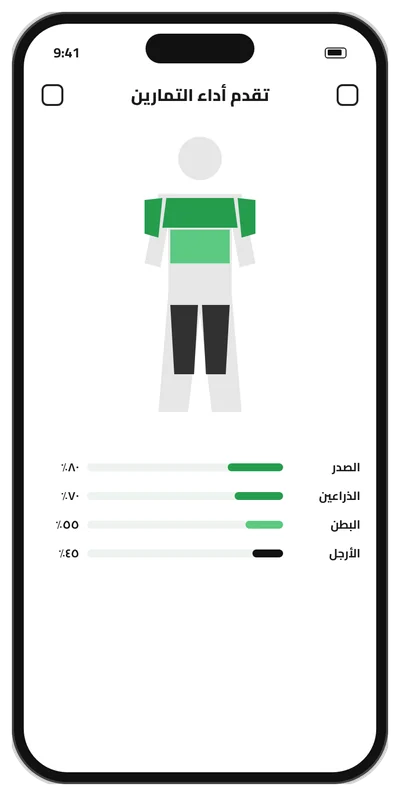
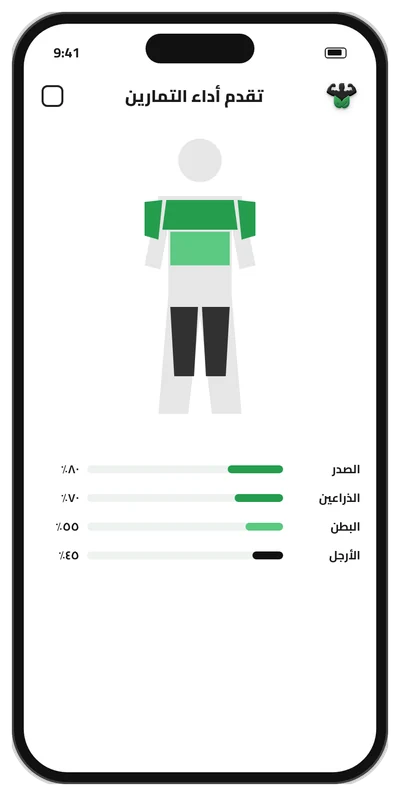
اللوجو جوه شاشات الموبايل بدل ما يكون برّه، وصور موحدة في صفحة الاشتراكات
Claude-Session: https://claude.ai/code/session_01Jq8xHZeKVQdYZvT3ecHSsn

diff --git a/index.html b/index.html
@@ -48,7 +48,7 @@
       </div>
       <a class="btn" href="start.html">ابدأ التغيير</a>
     </div>
-    <div class="hero-img branded duo"><img class="p1" src="assets/app-nutrition.webp" width="520" height="1043" alt="شاشة الوجبات في التطبيق"><img class="p2" src="assets/app-goal.webp" width="480" height="802" alt="شاشة اختيار الهدف"></div>
+    <div class="hero-img duo"><img class="p1" src="assets/app-nutrition.webp" width="520" height="1043" alt="شاشة الوجبات في التطبيق"><img class="p2" src="assets/app-goal.webp" width="480" height="802" alt="شاشة اختيار الهدف"></div>
   </div>
 </header>
 <section class="band" id="app"><div class="wrap">
@@ -62,7 +62,7 @@
       <div class="step"><i>١</i><div><h3>حدد هدفك الذي تود تحقيقه</h3><p>نصمم لك برنامجك المتكامل بناءً على هدفك كي تصل إليه أسرع.</p></div></div>
       <div class="step"><i>٢</i><div><h3>أخبرنا بمعلومات عن جسمك</h3><p>أدخل وزنك، طولك، نسبة الدهون بجسمك كي نتعرف على احتياجاتك بدقة.</p></div></div>
     </div>
-    <div class="phone branded"><img src="assets/app-goal.webp" width="480" height="802" alt="شاشة اختيار الهدف في التطبيق" loading="lazy"></div>
+    <img class="phone" src="assets/app-goal.webp" width="480" height="802" alt="شاشة اختيار الهدف في التطبيق" loading="lazy">
     <div>
       <div class="step"><i>٣</i><div><h3>اختر تفضيلاتك في التغذية</h3><p>حدد جميع تفضيلاتك كي نحضّر لك أفضل الوصفات الصحية بدون تخمينات.</p></div></div>
       <div class="step"><i>٤</i><div><h3>صمم تمارينك بدون قيود</h3><p>أخبرنا بمكان التمرين، مستواك الرياضي، والأدوات المتاحة كي تتمرن بدون قيود.</p></div></div>
@@ -82,7 +82,7 @@
     </ul>
     <a class="btn" href="start.html">ابدأ رحلتك الآن</a>
   </div>
-  <div class="shot branded"><span class="s1"></span><span class="s2"></span><img src="assets/app-workouts.webp" width="520" height="1035" alt="شاشة برنامج التمارين" loading="lazy"></div>
+  <div class="shot"><span class="s1"></span><span class="s2"></span><img src="assets/app-workouts.webp" width="520" height="1035" alt="شاشة برنامج التمارين" loading="lazy"></div>
 </div></section>
 
 <section class="band feat flip alt"><div class="wrap">
@@ -97,7 +97,7 @@
     </ul>
     <a class="btn" href="start.html">ابدأ رحلتك الآن</a>
   </div>
-  <div class="shot branded"><span class="s1"></span><span class="s2"></span><img src="assets/app-nutrition.webp" width="520" height="1043" alt="شاشة الوجبات في التطبيق" loading="lazy"></div>
+  <div class="shot"><span class="s1"></span><span class="s2"></span><img src="assets/app-nutrition.webp" width="520" height="1043" alt="شاشة الوجبات في التطبيق" loading="lazy"></div>
 </div></section>
 
 <section class="band peach feat"><div class="wrap">
@@ -111,14 +111,14 @@
     </ul>
     <a class="btn" href="start.html">ابدأ رحلتك الآن</a>
   </div>
-  <div class="shot branded"><span class="s1"></span><span class="s2"></span><img src="assets/app-chat.webp" width="520" height="1041" alt="شاشة المحادثة مع المدرب" loading="lazy"></div>
+  <div class="shot"><span class="s1"></span><span class="s2"></span><img src="assets/app-chat.webp" width="520" height="1041" alt="شاشة المحادثة مع المدرب" loading="lazy"></div>
 </div></section>
 
 <section class="band"><div class="wrap">
   <div class="cards3">
-    <div class="pc branded"><h3>تغير في أقل من ٣٠ يوم</h3><p>تابع نزول وزنك ونسبة دهونك أسبوع بأسبوع، وشوف التغيير بعينك.</p><img src="assets/stat-change.webp" width="520" height="539" alt="رسم بياني لنزول الوزن في التطبيق" loading="lazy"></div>
-    <div class="pc branded"><h3>تابع تقدمك</h3><p>بروفايلك الشخصي يتم تحديثه باستمرار بإحصائيات لمتابعة تقدمك خطوة بخطوة، وتحفيزك للمواظبة على برنامجك.</p><img src="assets/stat-progress.webp" width="520" height="527" alt="شاشة متابعة التقدم" loading="lazy"></div>
-    <div class="pc branded"><h3>نافس أصدقاءك</h3><p>تحدَّ نفسك وأصدقاءك. اجمع نقاط وسترايكس مع كل تمرينة ووجبة وكوب ماء وإنجاز، واوصل لمستويات أعلى.</p><img src="assets/stat-level.webp" width="520" height="539" alt="شاشة المستوى الجديد" loading="lazy"></div>
+    <div class="pc"><h3>تغير في أقل من ٣٠ يوم</h3><p>تابع نزول وزنك ونسبة دهونك أسبوع بأسبوع، وشوف التغيير بعينك.</p><img src="assets/stat-change.webp" width="520" height="539" alt="رسم بياني لنزول الوزن في التطبيق" loading="lazy"></div>
+    <div class="pc"><h3>تابع تقدمك</h3><p>بروفايلك الشخصي يتم تحديثه باستمرار بإحصائيات لمتابعة تقدمك خطوة بخطوة، وتحفيزك للمواظبة على برنامجك.</p><img src="assets/stat-progress.webp" width="520" height="527" alt="شاشة متابعة التقدم" loading="lazy"></div>
+    <div class="pc"><h3>نافس أصدقاءك</h3><p>تحدَّ نفسك وأصدقاءك. اجمع نقاط وسترايكس مع كل تمرينة ووجبة وكوب ماء وإنجاز، واوصل لمستويات أعلى.</p><img src="assets/stat-level.webp" width="520" height="539" alt="شاشة المستوى الجديد" loading="lazy"></div>
   </div>
 </div></section>
 

diff --git a/pricing.html b/pricing.html
@@ -61,7 +61,7 @@
 <section class="band peach"><div class="wrap center">
   <h2>حقق تغير ملحوظ مع NutFit بلس</h2>
   <p>كل اللي محتاجه عشان تحقق تغير ملحوظ من الأسابيع الأولى.</p>
-  <div class="pfs"><div class="pf"><div class="branded"><img src="assets/plus/../app-chat.webp" width="400" height="796" alt="" loading="lazy"></div><h3>متابعة فردية مع مدربك</h3><p>دعم مستمر وتشجيع دائم من أفضل أخصائيي التمرين والتغذية.</p></div><div class="pf"><div class="branded"><img src="assets/plus/customize-your-program.webp" width="400" height="796" alt="" loading="lazy"></div><h3>صمم برنامجك حسب هدفك ومستواك</h3><p>اختر هدفك ومستوى لياقتك، وهنبني لك خطة تمارين تناسبك وتساعدك توصل لنتيجتك بأفضل طريقة.</p></div><div class="pf"><div class="branded"><img src="assets/plus/../stat-change.webp" width="400" height="796" alt="" loading="lazy"></div><h3>تمارين ذكية ومتنوعة</h3><p>خصص تمارينك من أسبوع للتالي باستخدام الذكاء الاصطناعي كي تحقق أهدافك أسرع.</p></div><div class="pf"><div class="branded"><img src="assets/plus/nutrition-program.webp" width="400" height="796" alt="" loading="lazy"></div><h3>نظام غذائي متكامل وعلى ذوقك</h3><p>اختر ما تحب من بين مئات الوصفات الصحية سهلة التحضير مع قائمة أسبوعية بالطلبات.</p></div><div class="pf"><div class="branded"><img src="assets/plus/progress-metrics.webp" width="400" height="796" alt="" loading="lazy"></div><h3>تابع تقدمك على مستوى كل عضلة</h3><p>تابع تطوّرك في كل عضلة، واعرف مستواك وتقدمك خطوة بخطوة عشان توصل لنتيجتك أسرع.</p></div><div class="pf"><div class="branded"><img src="assets/plus/suppliments.webp" width="400" height="796" alt="" loading="lazy"></div><h3>برنامج مكملات محسوب بالجرعات</h3><p>خطة مكملات منظمة على حسب هدفك واحتياج جسمك بجرعات دقيقة وآمنة.</p></div><div class="pf"><div class="branded"><img src="assets/plus/../stat-progress.webp" width="400" height="796" alt="" loading="lazy"></div><h3>بدائل للتمارين</h3><p>لو التمرين مش مناسبك أو عايز تبدله، هتلاقي بدائل تناسب مستواك عشان تكمل تمرينك.</p></div></div>
+  <div class="pfs"><div class="pf"><div class="pimg"><img src="assets/plus/../app-chat.webp" width="400" height="796" alt="" loading="lazy"></div><h3>متابعة فردية مع مدربك</h3><p>دعم مستمر وتشجيع دائم من أفضل أخصائيي التمرين والتغذية.</p></div><div class="pf"><div class="pimg"><img src="assets/plus/customize-your-program.webp" width="400" height="796" alt="" loading="lazy"></div><h3>صمم برنامجك حسب هدفك ومستواك</h3><p>اختر هدفك ومستوى لياقتك، وهنبني لك خطة تمارين تناسبك وتساعدك توصل لنتيجتك بأفضل طريقة.</p></div><div class="pf"><div class="pimg"><img src="assets/plus/../app-workouts.webp" width="400" height="796" alt="" loading="lazy"></div><h3>تمارين ذكية ومتنوعة</h3><p>خصص تمارينك من أسبوع للتالي باستخدام الذكاء الاصطناعي كي تحقق أهدافك أسرع.</p></div><div class="pf"><div class="pimg"><img src="assets/plus/nutrition-program.webp" width="400" height="796" alt="" loading="lazy"></div><h3>نظام غذائي متكامل وعلى ذوقك</h3><p>اختر ما تحب من بين مئات الوصفات الصحية سهلة التحضير مع قائمة أسبوعية بالطلبات.</p></div><div class="pf"><div class="pimg"><img src="assets/plus/progress-metrics.webp" width="400" height="796" alt="" loading="lazy"></div><h3>تابع تقدمك على مستوى كل عضلة</h3><p>تابع تطوّرك في كل عضلة، واعرف مستواك وتقدمك خطوة بخطوة عشان توصل لنتيجتك أسرع.</p></div><div class="pf"><div class="pimg"><img src="assets/plus/suppliments.webp" width="400" height="796" alt="" loading="lazy"></div><h3>برنامج مكملات محسوب بالجرعات</h3><p>خطة مكملات منظمة على حسب هدفك واحتياج جسمك بجرعات دقيقة وآمنة.</p></div><div class="pf"><div class="pimg"><img src="assets/plus/workout-replacement.webp" width="400" height="796" alt="" loading="lazy"></div><h3>بدائل للتمارين</h3><p>لو التمرين مش مناسبك أو عايز تبدله، هتلاقي بدائل تناسب مستواك عشان تكمل تمرينك.</p></div></div>
 </div></section>
 <section class="band"><div class="wrap">
   <div class="free" id="free">

diff --git a/assets/site.css b/assets/site.css
@@ -286,5 +286,8 @@ footer .wrap{grid-template-columns:1.2fr 1fr 1fr}
 .duo .p1{width:44%;inset-inline-end:6%;top:0}
 .duo .p2{width:42%;inset-inline-start:4%;top:8%}
 .gainlogo{width:min(420px,90%);margin:0 auto clamp(32px,5vw,64px);filter:drop-shadow(0 10px 30px rgba(0,0,0,.18));background:#fff;border-radius:24px;padding:20px}
-.pf .branded{max-width:260px;margin:0 auto 10px}.pf img{height:240px;width:100%;object-fit:contain}
+.pf .pimg{max-width:260px;margin:0 auto 10px}.pf img{height:240px;width:100%;object-fit:contain}
 .qrev img{display:block;margin:0 auto 10px;width:72px;height:72px;background:#fff;border-radius:50%;padding:8px}.qrev b{display:block;font-size:18px}.qrev p{color:#fff;opacity:.85;margin:6px auto 0;font-size:15px}
+.pf img{height:340px}
+@media(min-width:901px){.pfs>.pf:last-child:nth-child(3n+1){grid-column:2}}
+@media(max-width:600px){.pf img{height:380px}}
